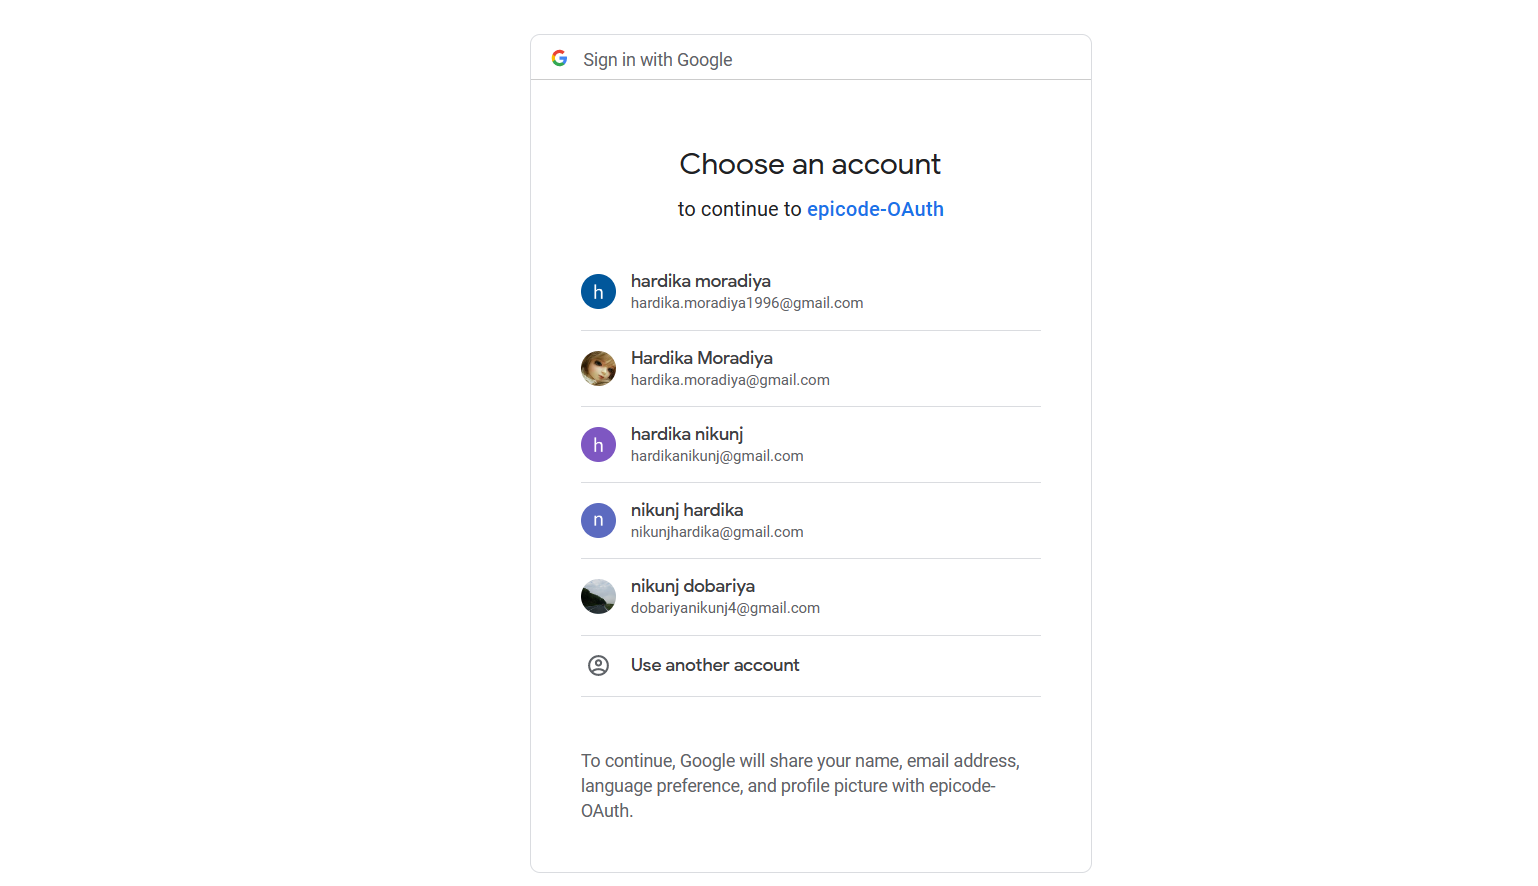
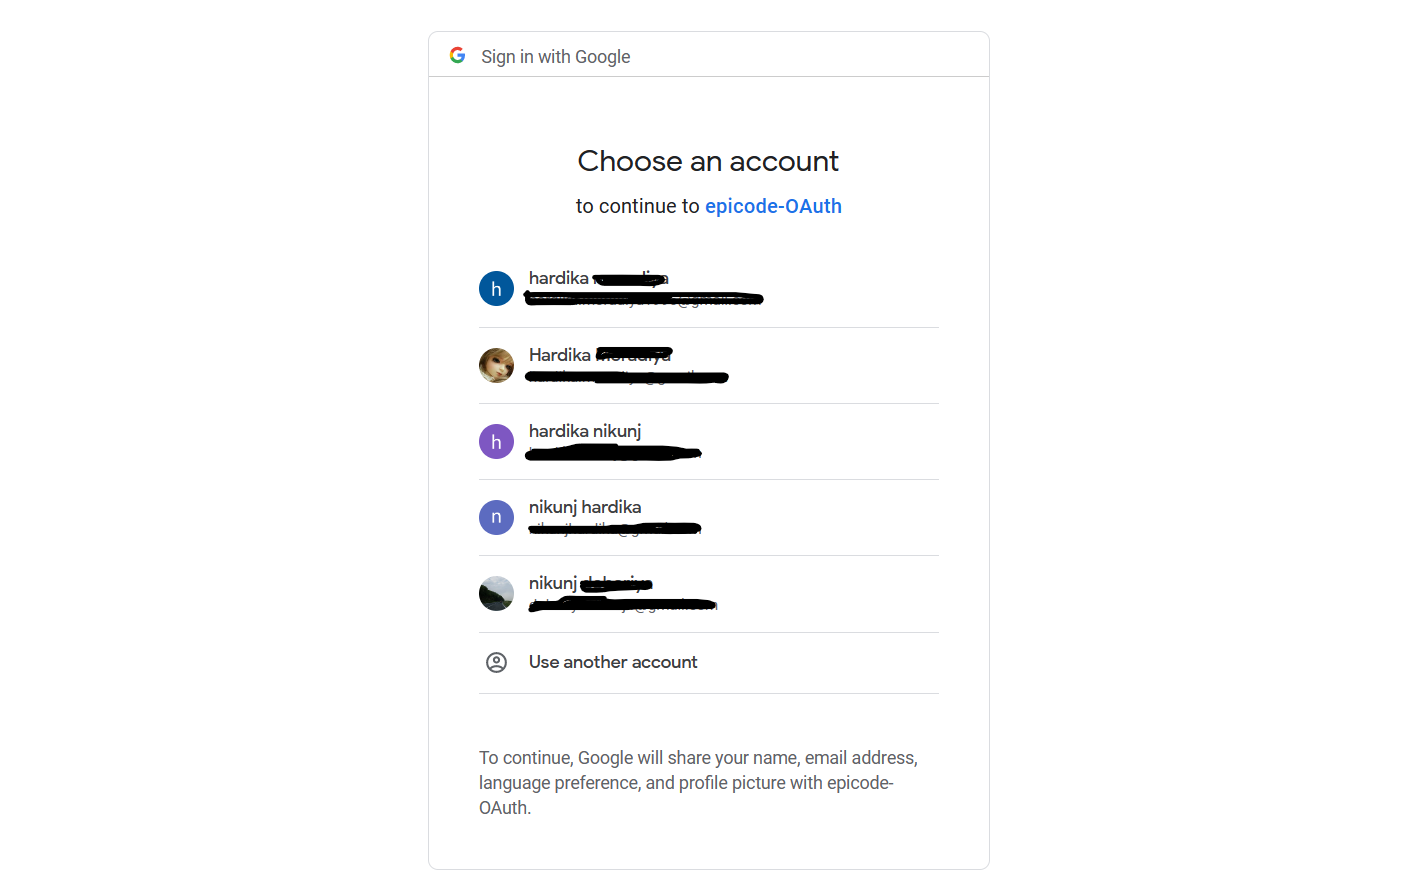
upload image

diff --git a/README.md b/README.md
@@ -38,7 +38,7 @@ The app should now be running on [http://localhost:3000](http://localhost:3000).
 
 ![image](/public/img/login1.png)
 
-<!-- ![image](/public/img/login2.png) -->
+![image](/public/img/login2.png)
 
 ![image](/public/img/blogs1.png)
 ![image](/public/img/blog2.png)
